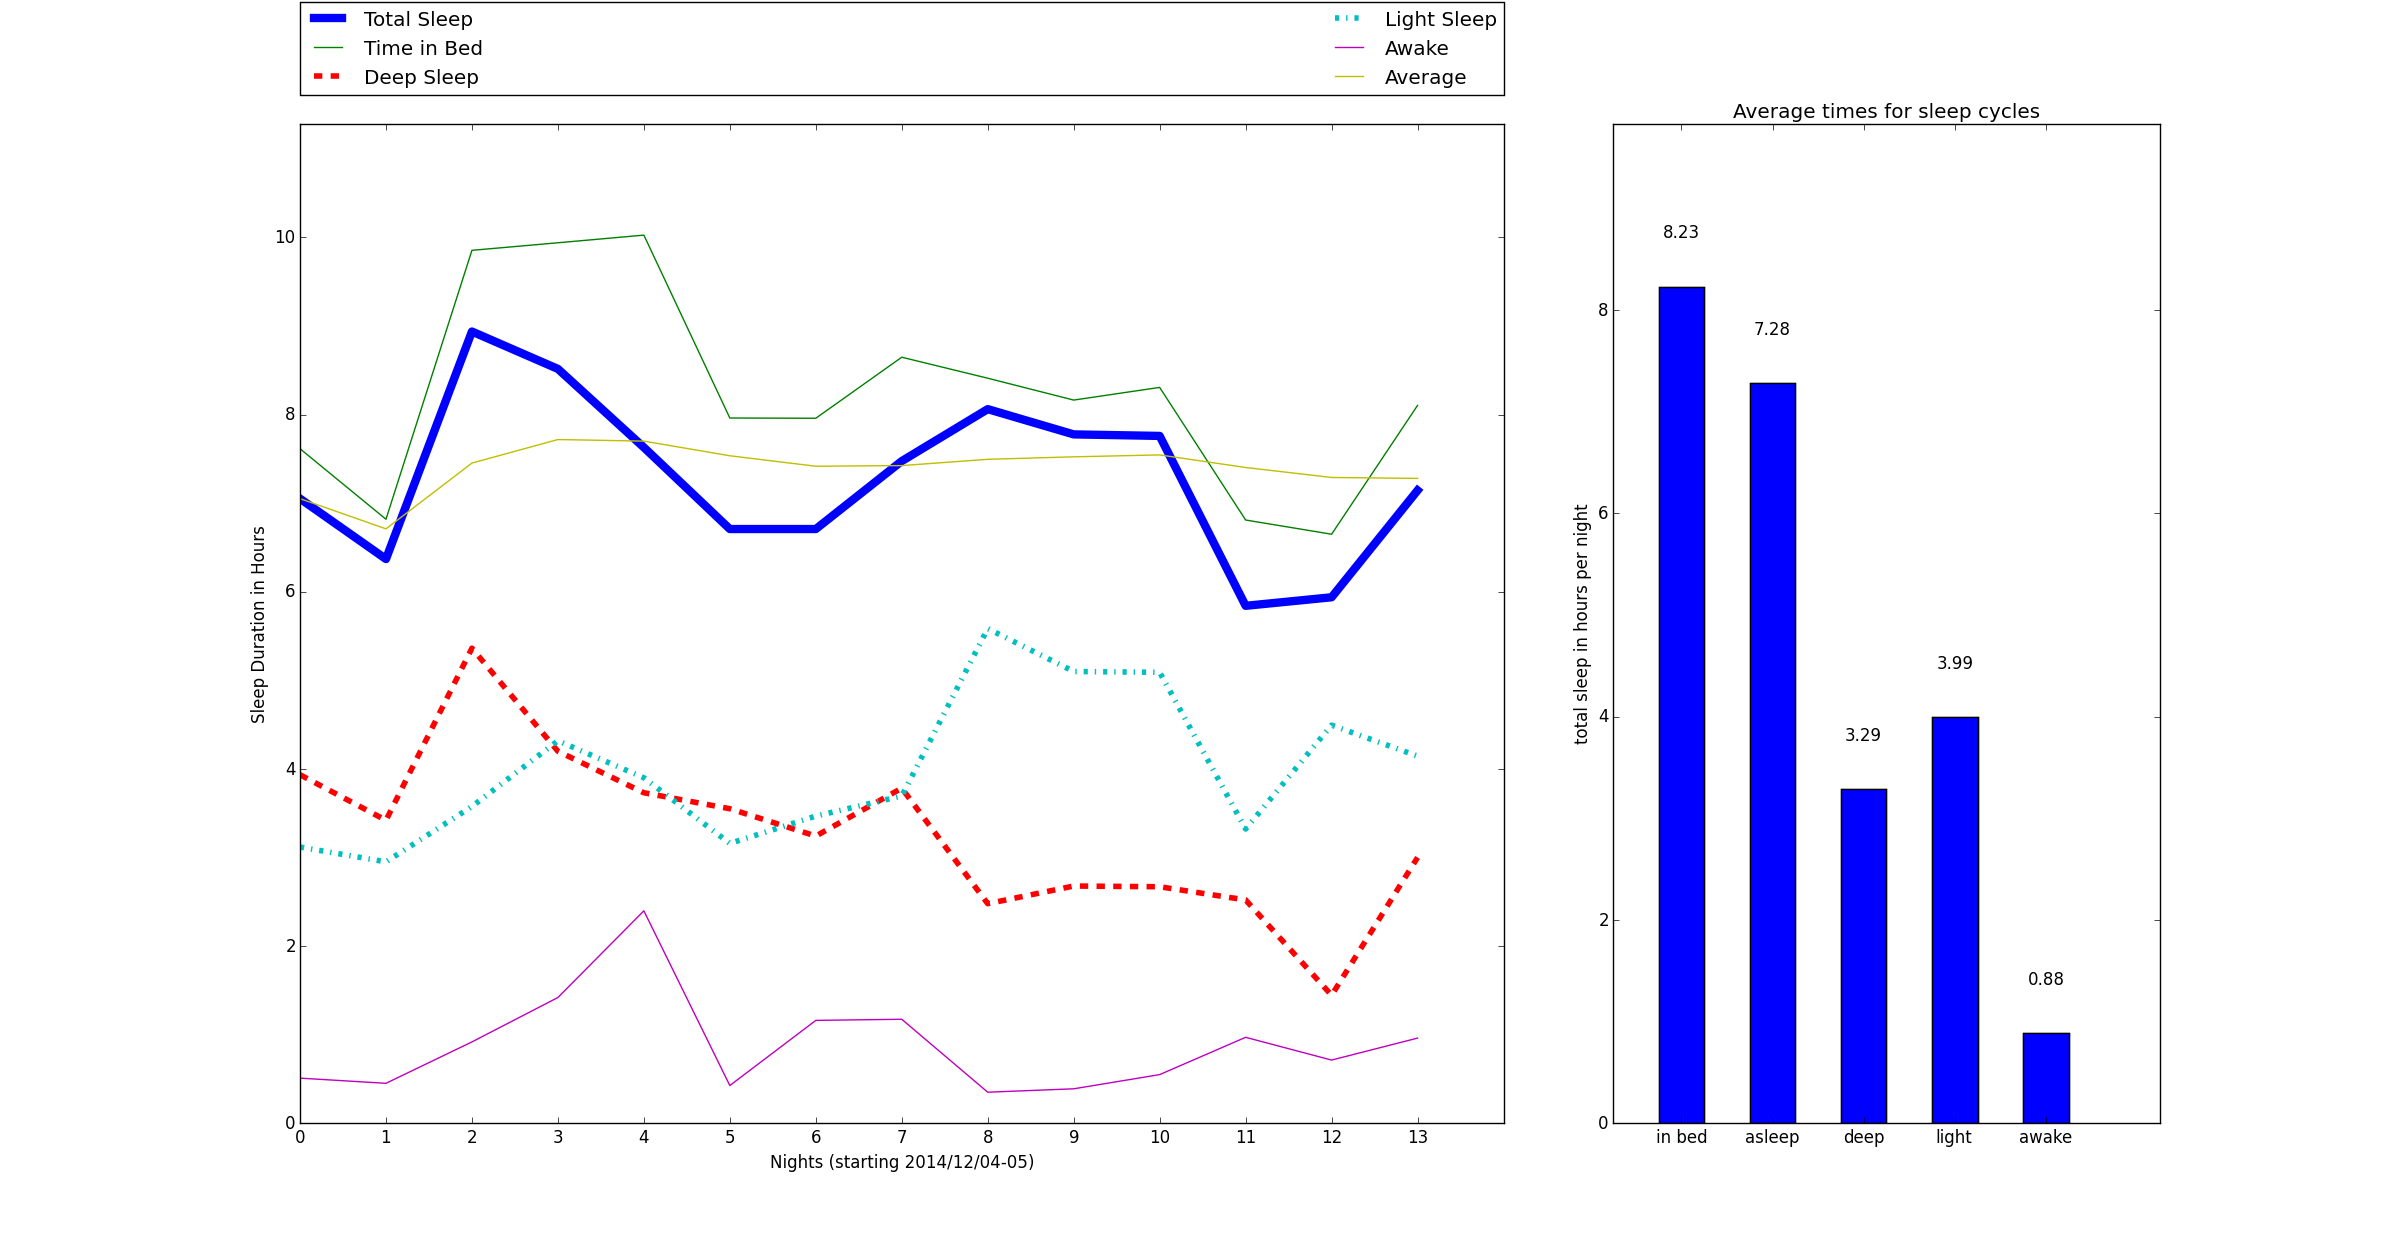
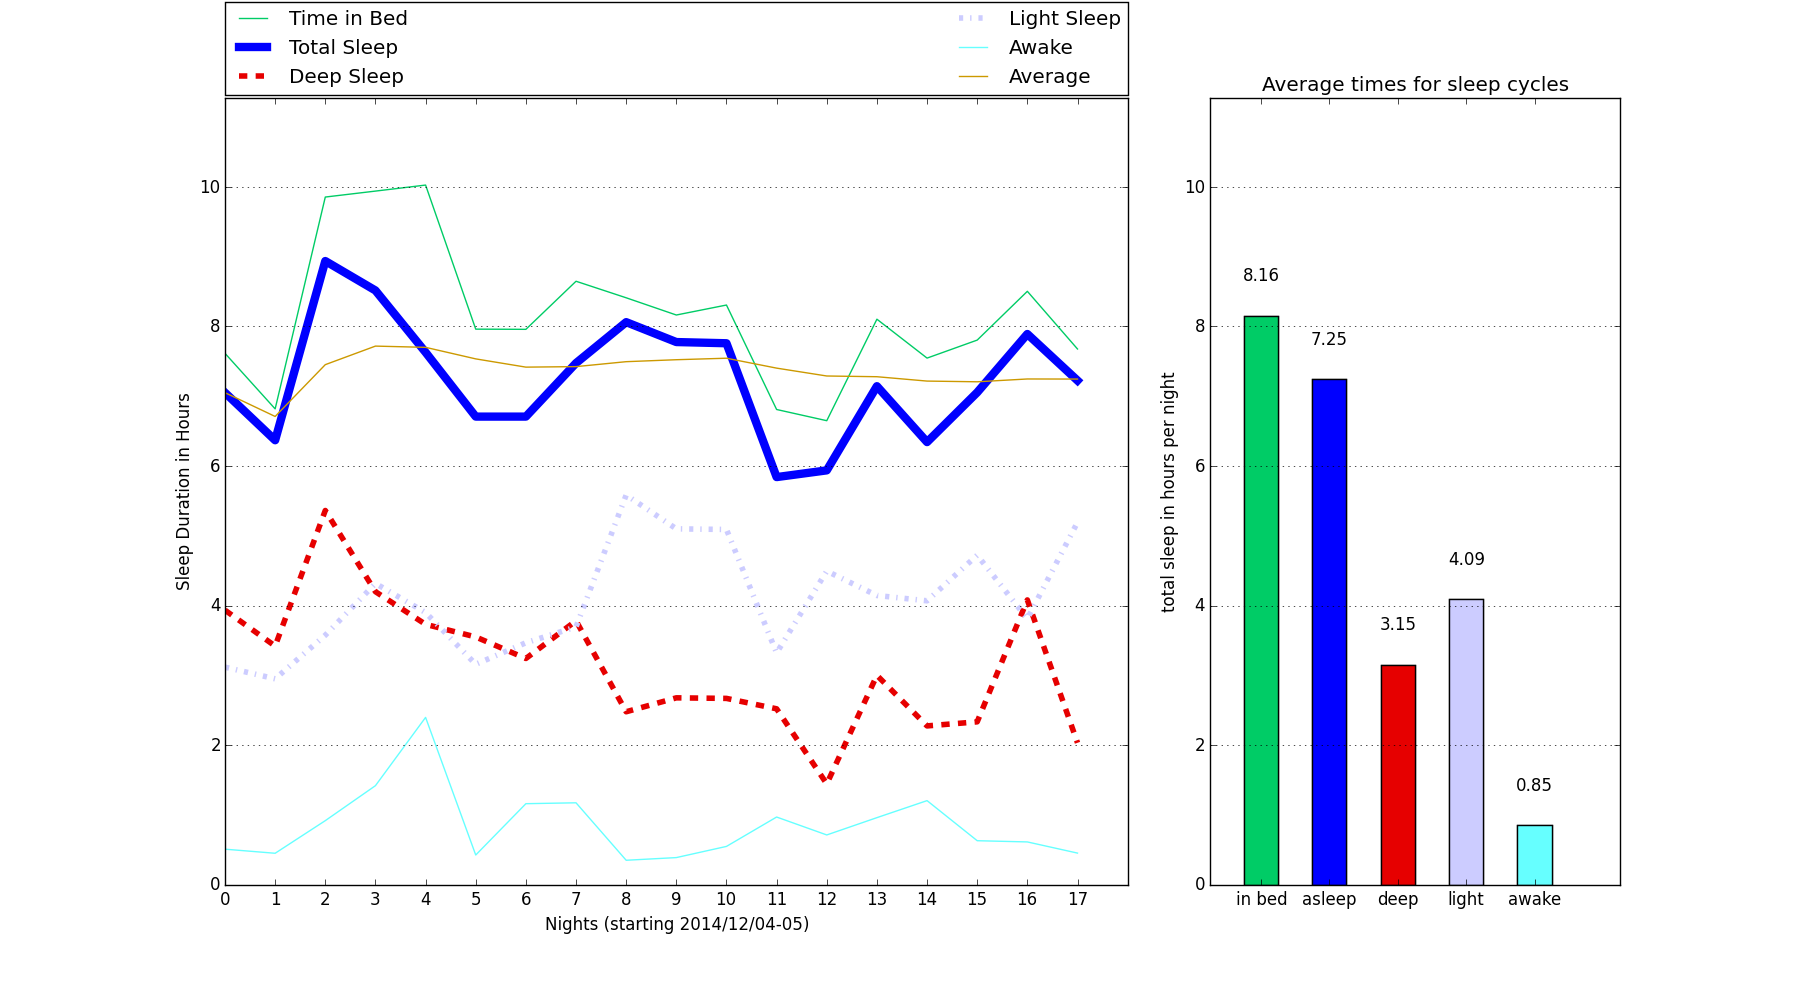
visual improvements to sleep graph

diff --git a/plotting/plotter.py b/plotting/plotter.py
@@ -218,14 +218,16 @@ def composite_line_bar(time_in_bed, total_sleep, deep_sleep, light_sleep, no_sle
     for i in range(1, len(total_sleep)+1):
         averages.append(sum(total_sleep[0:i]) / float(len(total_sleep[0:i])))
 
+    #           bed         asleep      deep    light       awake       average
+    colors = ['#00CC66', '#0000FF', '#E60000', '#CCCCFF', '#66FFFF', '#CC9900']
     fig, ax = plt.subplots()
     ax = plt.subplot2grid((3,3), (0,0), colspan=2, rowspan=3)
-    line_total, = plt.plot(total_sleep, label='Total Sleep', linewidth=6.0)
-    line_in_bed, = plt.plot(time_in_bed, label='Time in Bed')
-    line_deep, = plt.plot(deep_sleep, label='Deep Sleep', linestyle='--', linewidth=4.0)
-    line_light, = plt.plot(light_sleep, label='Light Sleep', linestyle='-.', linewidth=4.0)
-    line_awake, = plt.plot(no_sleep, label='Awake')
-    line_averages, = plt.plot(averages, label='Average')
+    line_in_bed, = plt.plot(time_in_bed, color=colors[0], label='Time in Bed')
+    line_total, = plt.plot(total_sleep, color=colors[1], label='Total Sleep', linewidth=6.0)
+    line_deep, = plt.plot(deep_sleep, color=colors[2], label='Deep Sleep', linestyle='--', linewidth=4.0)
+    line_light, = plt.plot(light_sleep, color=colors[3], label='Light Sleep', linestyle='-.', linewidth=4.0)
+    line_awake, = plt.plot(no_sleep, color=colors[4], label='Awake')
+    line_averages, = plt.plot(averages, color=colors[5], label='Average')
     #plt.legend(handles=[line_in_bed, line_total, line_deep, line_light, line_awake])
     leg = plt.legend(bbox_to_anchor=(0., 1.02, 1., .102), loc=1,
            ncol=2, mode="expand", borderaxespad=0.)
@@ -257,9 +259,13 @@ def composite_line_bar(time_in_bed, total_sleep, deep_sleep, light_sleep, no_sle
     fig.canvas.mpl_connect('pick_event', onpick)
     plt.ylabel('Sleep Duration in Hours')
     plt.xlabel('Nights (starting 2014/12/04-05)')
+    ax.grid(axis="y")
 
     # set ylim to max total_sleep + 10%
-    plt.ylim(0, max(time_in_bed) + (max(time_in_bed) / 8))
+
+    x_scale_top = max(time_in_bed) + (max(time_in_bed) / 8)
+
+    plt.ylim(0, x_scale_top)
     plt.xticks(np.arange(0, len(time_in_bed), 1.0))
     #plt.show()
 
@@ -270,6 +276,7 @@ def composite_line_bar(time_in_bed, total_sleep, deep_sleep, light_sleep, no_sle
     ## bar chart ##
     ################
     ax = plt.subplot2grid((3,3), (0, 2), rowspan=3)
+    ax.grid(axis="y")
 
     ## necessary variables
     ind = np.arange(5)
@@ -300,7 +307,7 @@ def composite_line_bar(time_in_bed, total_sleep, deep_sleep, light_sleep, no_sle
 
 
         # three subbars stacked to meat the total_time
-        p0 = plt.bar(ind, bars2, width)
+        p0 = plt.bar(ind, bars2, width, color=colors)
         #p00 = plt.bar(ind, total_sleep, width)
         #p1 = plt.bar(ind, deep_sleep, width)
         #p2 = plt.bar(ind, light_sleep, width)
@@ -314,7 +321,8 @@ def composite_line_bar(time_in_bed, total_sleep, deep_sleep, light_sleep, no_sle
 
         # axes and labels
         ax.set_xlim(-width, len(ind)+width)
-        ax.set_ylim(0, max(total_sleep) + max(total_sleep) / 10)
+        #ax.set_ylim(0, max(total_sleep) + max(total_sleep) / 10)
+        ax.set_ylim(0, x_scale_top)
         ax.set_ylabel('total sleep in hours per night')
         ax.set_title('Average times for sleep cycles')
         xTickMarks = ['in bed', 'asleep', 'deep', 'light', 'awake']

diff --git a/data/manager.py b/data/manager.py
@@ -60,8 +60,6 @@ def plot_sleep():
 
         timestamps.append(int(str(date.year) + str(date.month) + str(day)))
 
-    print(timestamps)
-
     # json data is from now -> past, dirty array reverse here
     #plot_line_graph(time_in_bed[::-1], total_sleep[::-1], deep_times[::-1], light_times[::-1], awake_times[::-1])
     composite_line_bar(time_in_bed[::-1], total_sleep[::-1], deep_times[::-1], light_times[::-1], awake_times[::-1])
